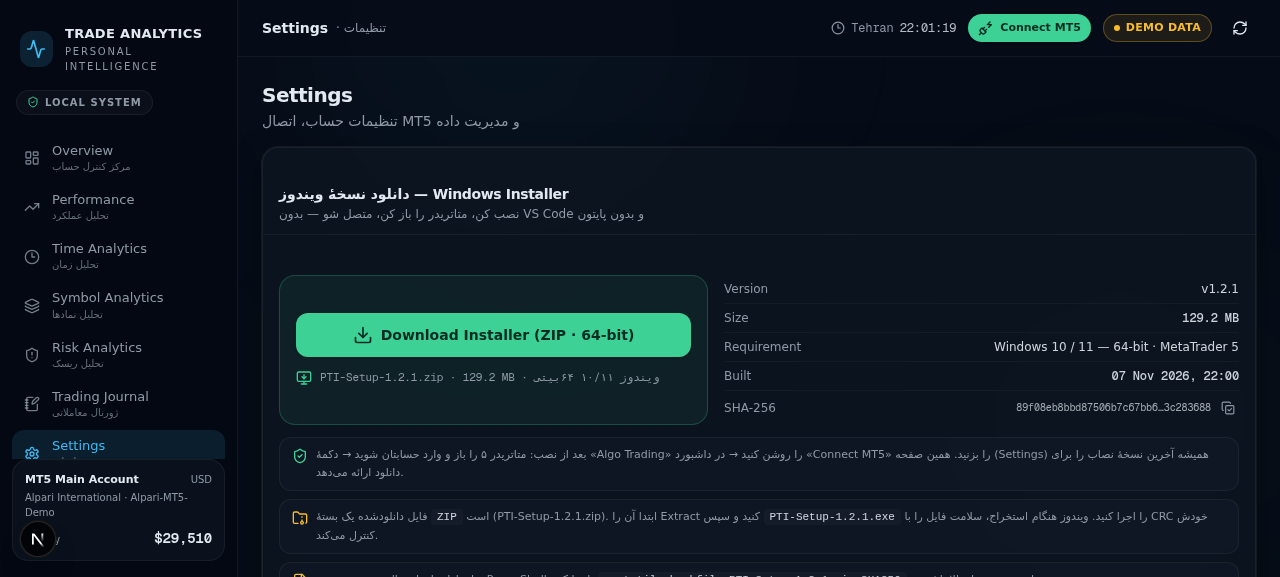
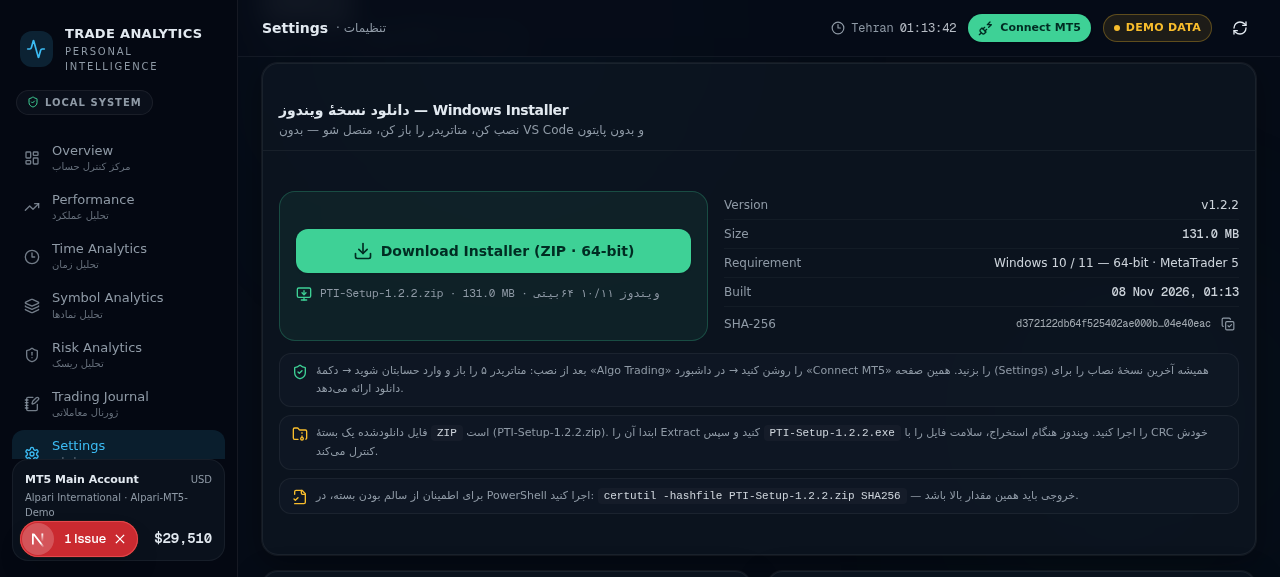
fix(download): green direct-download button now exists inside the INSTALLED app too — previously the packaged payload stripped installer files so /api/download fell back to GitHub there; NSIS now self-publishes the running setup exe into the app's public/ folder at install time (CopyFiles $EXEPATH, 

diff --git a/src/app/api/download/route.ts b/src/app/api/download/route.ts
@@ -7,12 +7,32 @@ import { createHash } from 'node:crypto'
 import path from 'node:path'
 import { stat } from 'node:fs/promises'
 import { Readable } from 'node:stream'
-import { APP_VERSION, GITHUB_RELEASES_URL, INSTALLER_FILE_NAME } from '@/lib/app-info'
+import { APP_VERSION, GITHUB_RELEASES_URL, INSTALLER_EXE_FILE_NAME, INSTALLER_FILE_NAME } from '@/lib/app-info'
 
 export const dynamic = 'force-dynamic'
 
-function installerPath(): string {
-  return path.join(process.cwd(), 'public', INSTALLER_FILE_NAME)
+/**
+ * The dashboard (dev/preview) ships the ZIP package; an installed copy instead
+ * self-publishes its own setup .exe into public/ at install time (the NSIS
+ * script CopyFiles $EXEPATH there). Serve whichever exists — ZIP preferred.
+ */
+function installerCandidates(): string[] {
+  return [
+    path.join(process.cwd(), 'public', INSTALLER_FILE_NAME),
+    path.join(process.cwd(), 'public', INSTALLER_EXE_FILE_NAME),
+  ]
+}
+
+async function findInstaller(): Promise<{ fileName: string; stats: Stats } | null> {
+  for (const filePath of installerCandidates()) {
+    try {
+      const stats = await stat(filePath)
+      if (stats.isFile()) return { fileName: path.basename(filePath), stats }
+    } catch {
+      // try the next candidate
+    }
+  }
+  return null
 }
 
 function contentTypeFor(fileName: string): string {
@@ -55,37 +75,36 @@ function notAvailable() {
   }
 }
 
-function binaryHeaders(stats: Stats) {
+function binaryHeaders(stats: Stats, fileName: string) {
   return {
-    'Content-Type': contentTypeFor(INSTALLER_FILE_NAME),
+    'Content-Type': contentTypeFor(fileName),
     'Content-Length': String(stats.size),
     'Accept-Ranges': 'bytes',
-    'Content-Disposition': `attachment; filename="${INSTALLER_FILE_NAME}"`,
+    'Content-Disposition': `attachment; filename="${fileName}"`,
     'Cache-Control': 'no-store',
   }
 }
 
 export async function GET(req: Request) {
-  const filePath = installerPath()
   const url = new URL(req.url)
   const wantsInfo = url.searchParams.get('info') != null
 
-  let stats: Stats
-  try {
-    stats = await stat(filePath)
-  } catch {
+  const found = await findInstaller()
+  if (!found) {
     if (wantsInfo) return Response.json(notAvailable())
     return Response.json(
       { error: 'فایل نصبی روی این نصب یافت نشد — از GitHub Releases دانلود کنید' },
       { status: 404 },
     )
   }
+  const { fileName, stats } = found
+  const filePath = path.join(process.cwd(), 'public', fileName)
 
   if (wantsInfo) {
     const sha256 = await sha256OfFile(filePath, stats)
     return Response.json({
       available: true,
-      fileName: INSTALLER_FILE_NAME,
+      fileName,
       version: APP_VERSION,
       sizeBytes: stats.size,
       sha256,
@@ -121,7 +140,7 @@ export async function GET(req: Request) {
       return new Response(Readable.toWeb(partial) as ReadableStream, {
         status: 206,
         headers: {
-          ...binaryHeaders(stats),
+          ...binaryHeaders(stats, fileName),
           'Content-Length': String(end - start + 1),
           'Content-Range': `bytes ${start}-${end}/${size}`,
         },
@@ -131,6 +150,6 @@ export async function GET(req: Request) {
 
   const full = createReadStream(filePath)
   return new Response(Readable.toWeb(full) as ReadableStream, {
-    headers: binaryHeaders(stats),
+    headers: binaryHeaders(stats, fileName),
   })
 }

diff --git a/src/components/trading/sections/settings.tsx b/src/components/trading/sections/settings.tsx
@@ -75,6 +75,10 @@ function InstallerDownloadPanel() {
     staleTime: 60_000,
   })
 
+  // The dashboard serves the ZIP package; an installed copy serves the setup
+  // .exe it published into its own public/ folder at install time.
+  const isZip = (data?.fileName ?? INSTALLER_FILE_NAME).toLowerCase().endsWith('.zip')
+
   const copyChecksum = async () => {
     if (!data?.sha256) return
     try {
@@ -108,7 +112,7 @@ function InstallerDownloadPanel() {
                 className="inline-flex h-11 items-center justify-center gap-2 rounded-lg bg-[var(--pos)] px-5 text-sm font-bold text-emerald-950 shadow-sm transition hover:bg-[var(--pos)]/85 focus-visible:outline-2 focus-visible:outline-offset-2 focus-visible:outline-[var(--pos)]"
               >
                 <Download className="h-5 w-5" aria-hidden />
-                Download Installer (ZIP · 64-bit)
+                Download Installer ({isZip ? 'ZIP' : 'EXE'} · 64-bit)
               </a>
             ) : (
               <div className="flex flex-col gap-2">
@@ -185,9 +189,18 @@ function InstallerDownloadPanel() {
         <div className="flex items-start gap-2 rounded-lg border border-border/60 bg-muted/30 px-3 py-2 text-[11px] leading-relaxed text-muted-foreground">
           <FolderArchive className="mt-0.5 h-4 w-4 shrink-0 text-[var(--warn)]" aria-hidden />
           <span>
-            فایل دانلودشده یک بستهٔ <Code>ZIP</Code> است ({data?.fileName ?? INSTALLER_FILE_NAME}). ابتدا آن را
-            Extract کنید و سپس <Code>{INSTALLER_EXE_FILE_NAME}</Code> را اجرا کنید. ویندوز هنگام استخراج، سلامت فایل را
-            با CRC خودش کنترل میکند.
+            {isZip ? (
+              <>
+                فایل دانلودشده یک بستهٔ <Code>ZIP</Code> است ({data?.fileName ?? INSTALLER_FILE_NAME}). ابتدا آن را
+                Extract کنید و سپس <Code>{INSTALLER_EXE_FILE_NAME}</Code> را اجرا کنید. ویندوز هنگام استخراج، سلامت فایل را
+                با CRC خودش کنترل میکند.
+              </>
+            ) : (
+              <>
+                این همان فایل نصبی است که این برنامه با آن نصب شده ({data?.fileName ?? INSTALLER_EXE_FILE_NAME}) — برای
+                نصب روی سیستم دیگر کافی است آن را مستقیم اجرا کنید؛ نیازی به Extract ندارد.
+              </>
+            )}
           </span>
         </div>
         <div className="flex items-start gap-2 rounded-lg border border-border/60 bg-muted/30 px-3 py-2 text-[11px] leading-relaxed text-muted-foreground">

diff --git a/src/lib/app-info.ts b/src/lib/app-info.ts
@@ -1,7 +1,7 @@
 // ─── Application identity — single source of truth for version & downloads ───
 
 export const APP_NAME = 'Personal Trading Intelligence'
-export const APP_VERSION = '1.2.1'
+export const APP_VERSION = '1.2.2'
 
 /** The .exe inside the downloadable package */
 export const INSTALLER_EXE_FILE_NAME = `PTI-Setup-${APP_VERSION}.exe`
